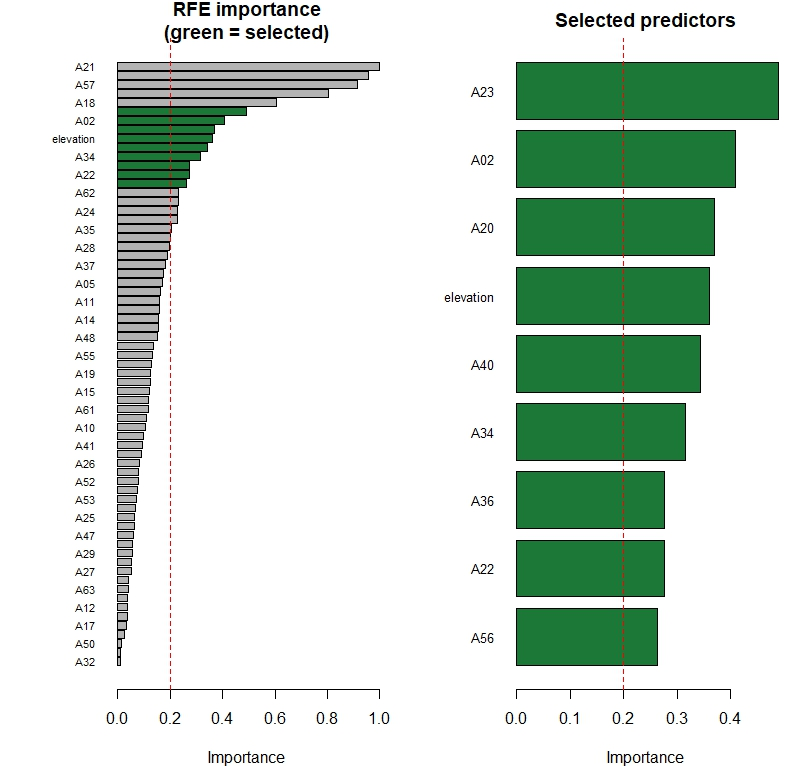
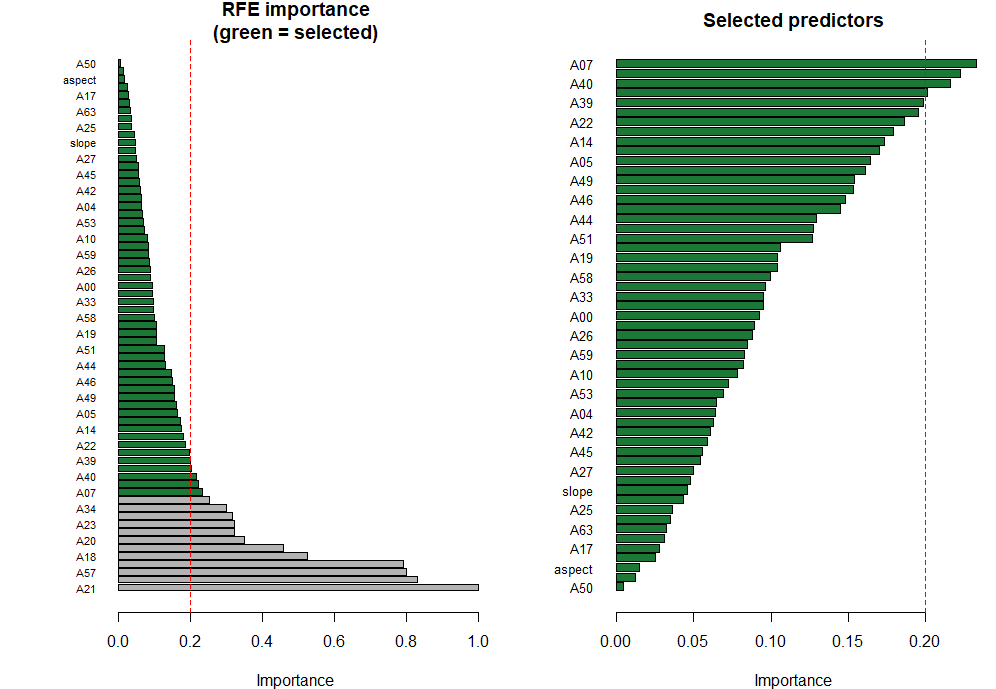
add rcode for upscaling in readme

diff --git a/README.md b/README.md
@@ -1104,6 +1104,22 @@ In this workflow we model the `rh98` canopy height metric from ICESat-2 ATL03/AT
 (elevation, slope, aspect, lon, lat) retrieved through Google Earth Engine.
 A Random Forest model is trained on sampled segments and applied wall-to-wall across the AOI.
 
+## Code availability
+
+The complete R workflow used in this example is available as a standalone script:
+
+🔵 [![R Script](https://img.shields.io/badge/R-Workflow-blue)](inst/scripts/upscaling_alphaearth_workflow.R)
+
+The script includes:
+
+- ICESat-2 data discovery, download, and processing
+- Segment-level canopy height metric extraction
+- AlphaEarth embedding generation
+- Ancillary terrain predictor extraction
+- Predictor selection and model development
+- Wall-to-wall canopy height prediction
+- GeoTIFF export and visualization
+
 ## Install and load required packages
 
 ``` r